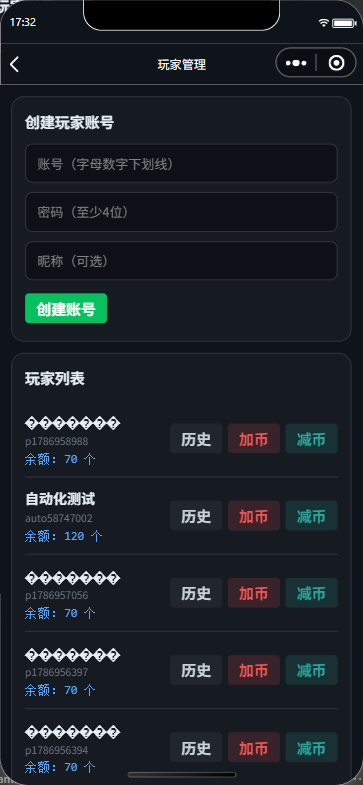
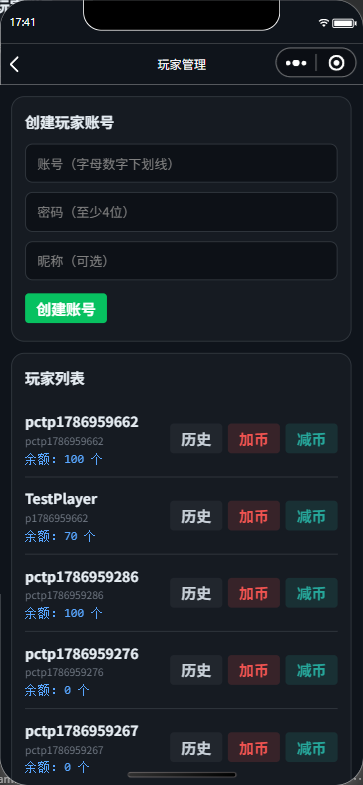
fix: 清理数据库乱码测试数据（GBK 编码污染），服务端增加 UTF-8 乱码防护，测试脚本改用 ASCII 数据

diff --git a/server/routes/admin.js b/server/routes/admin.js
@@ -8,6 +8,15 @@ const router = express.Router();
 // 以下接口全部需要管理员身份
 router.use(requireAuth, requireAdmin);
 
+// 编码防护：拒绝包含 U+FFFD（替换字符）的文本，防止乱码数据入库
+function assertCleanText(value, fieldName) {
+  if (typeof value === 'string' && value.includes('\uFFFD')) {
+    const err = new Error(`${fieldName} 包含无法识别的乱码字符，请使用 UTF-8 编码`);
+    err.status = 400;
+    throw err;
+  }
+}
+
 // GET /api/admin/players —— 玩家列表（含余额）
 router.get('/players', (req, res) => {
   const list = db.prepare(
@@ -21,6 +30,9 @@ router.get('/players', (req, res) => {
 router.post('/players', (req, res) => {
   const { username, password, nickname } = req.body || {};
   const uname = String(username || '').trim();
+  const unick = String(nickname || '').trim();
+  assertCleanText(uname, '账号');
+  assertCleanText(unick, '昵称');
   if (!uname || !password) {
     return res.status(400).json({ code: 400, message: '账号和密码不能为空' });
   }
@@ -35,7 +47,7 @@ router.post('/players', (req, res) => {
   }
   const info = db.prepare(
     'INSERT INTO users (username, password_hash, role, nickname) VALUES (?, ?, ?, ?)'
-  ).run(uname, hashPassword(String(password)), 'player', String(nickname || '').trim());
+  ).run(uname, hashPassword(String(password)), 'player', unick);
   const user = db.prepare('SELECT * FROM users WHERE id = ?').get(info.lastInsertRowid);
   res.json({ code: 0, data: publicUser(user) });
 });
@@ -46,6 +58,7 @@ router.post('/players', (req, res) => {
 router.post('/adjust', (req, res) => {
   const { playerId, amount, base, percent, remark } = req.body || {};
   const pid = parseInt(playerId, 10);
+  assertCleanText(remark, '备注');
   if (!pid) {
     return res.status(400).json({ code: 400, message: '参数错误：需要玩家ID' });
   }

diff --git a/server/index.js b/server/index.js
@@ -50,7 +50,7 @@ app.use('/api/admin', require('./routes/admin'));
 // 统一错误处理（避免异常堆栈泄露给客户端）
 app.use((err, req, res, next) => {
   console.error('[server error]', err);
-  res.status(500).json({ code: 500, message: '服务器内部错误' });
+  res.status(err.status || 500).json({ code: err.status || 500, message: err.message || '服务器内部错误' });
 });
 
 app.listen(PORT, () => {
